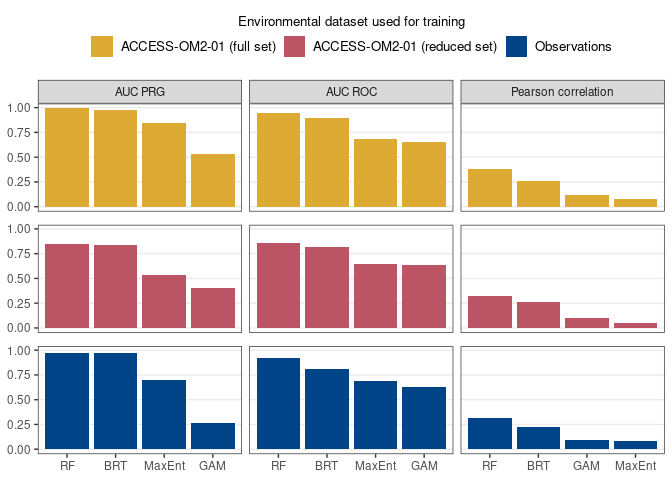
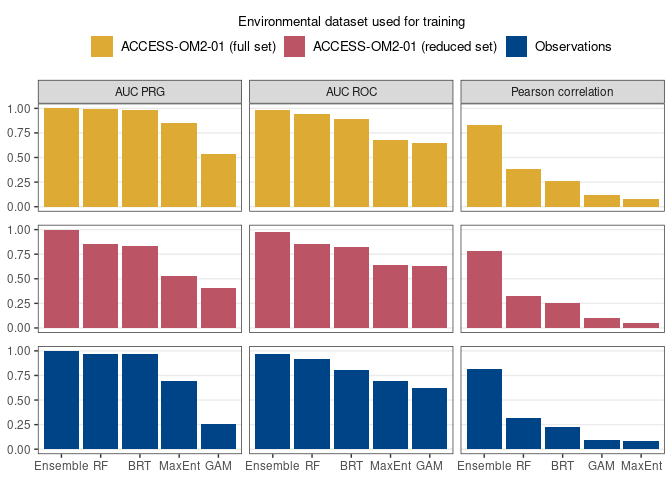
updating performance plot to include ensemble

diff --git a/Scripts/05_SDMs/08_SDMs_performance_plots.md b/Scripts/05_SDMs/08_SDMs_performance_plots.md
@@ -34,11 +34,11 @@ These metrics were calculated for each SDM algorithm and compiled into a
 single file.
 
 ``` r
-mod_eval_path <- "../../SDM_outputs/model_evaluation.csv"
+mod_eval_path <- "../../SDM_outputs/model_evaluation_plus_ensemble.csv"
 model_eval <- read_csv(mod_eval_path) 
 ```
 
-    ## Rows: 12 Columns: 6
+    ## Rows: 15 Columns: 6
     ## ── Column specification ────────────────────────────────────────────────────────
     ## Delimiter: ","
     ## chr (2): model, env_trained
@@ -58,6 +58,7 @@ bars <- model_eval %>%
   mutate(model = case_when(str_detect(model, "Random") ~ "RF",
                            str_detect(model, "Trees") ~ "BRT",
                            model == "Maxent" ~ "MaxEnt",
+                           str_detect(model, "Weight") ~ "Ensemble",
                            T ~ model),
          #Turning column to factor
          model = factor(model),
@@ -70,7 +71,8 @@ bars <- model_eval %>%
              y = value))+
   geom_col(position = "dodge", aes(fill = env_trained))+
   scale_x_reordered()+
-  #Divide plots by SDM algorithms and source of environmental data used for training model
+  #Divide plots by SDM algorithms and source of environmental data used for 
+  #training the model
   facet_grid(env_trained~metric, scales = "free_x")+
   theme_bw()+
   scale_fill_manual(values = c("#ddaa33", "#bb5566", "#004488"),
@@ -114,15 +116,15 @@ scatter <- model_eval %>%
                               position = "top"))+
   #Assign new shapes and labels
   scale_shape_manual(labels = c("Boosted Regression Trees", "GAM", "MaxEnt",
-                                "Random Forests"),
-                     values = c(8, 6, 12, 10))+
+                                "Random Forests", "Ensemble"),
+                     values = c(8, 6, 12, 10, 5))+
   #Assign same colours as previous figure
   scale_colour_manual(values = c("#ddaa33", "#bb5566", "#004488"))+
   #Change legend title position
   theme(legend.title.position = "top", 
         legend.title = element_text(hjust = 0.5, size = 10), 
         legend.text = element_text(size = 10))+
-  lims(y = c(0, 0.4))
+  lims(y = c(0, 0.87))
 
 scatter
 ```
